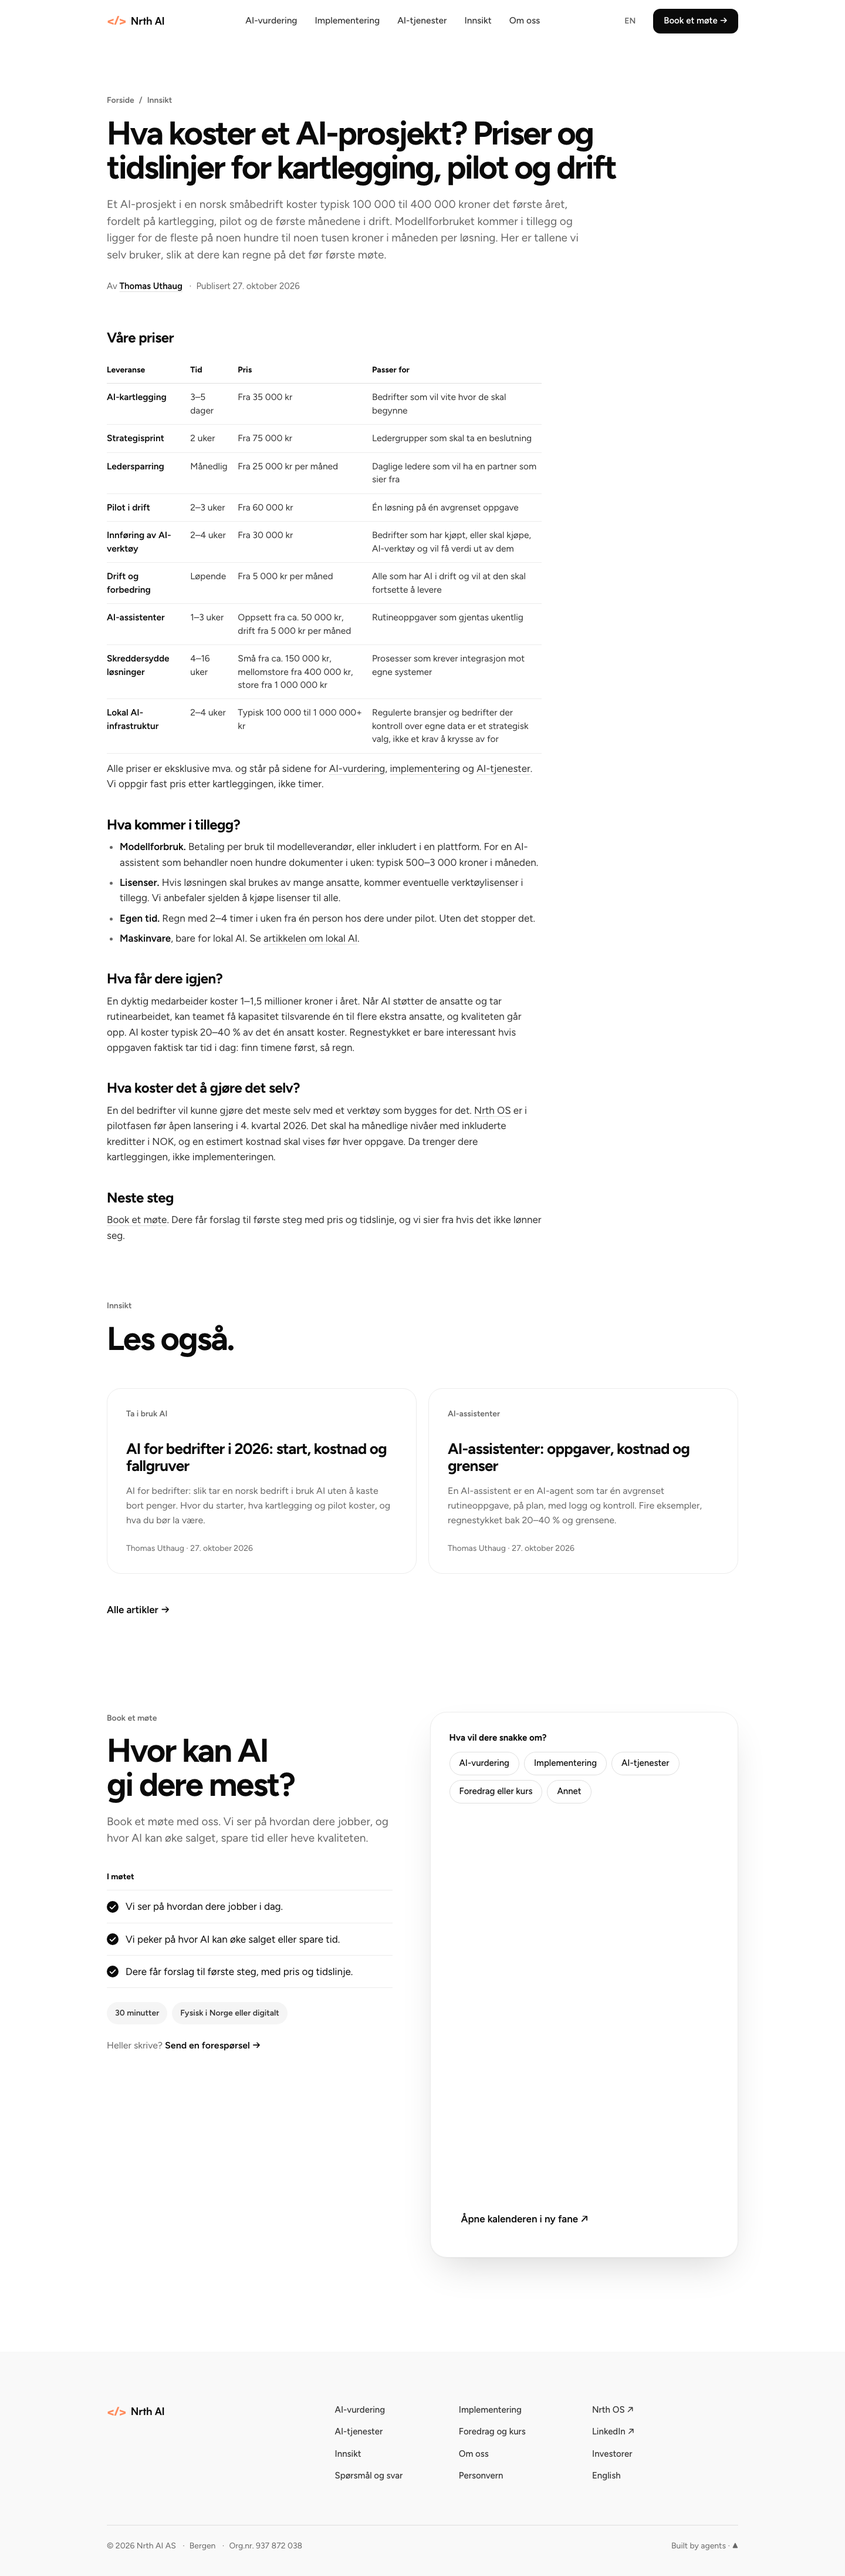
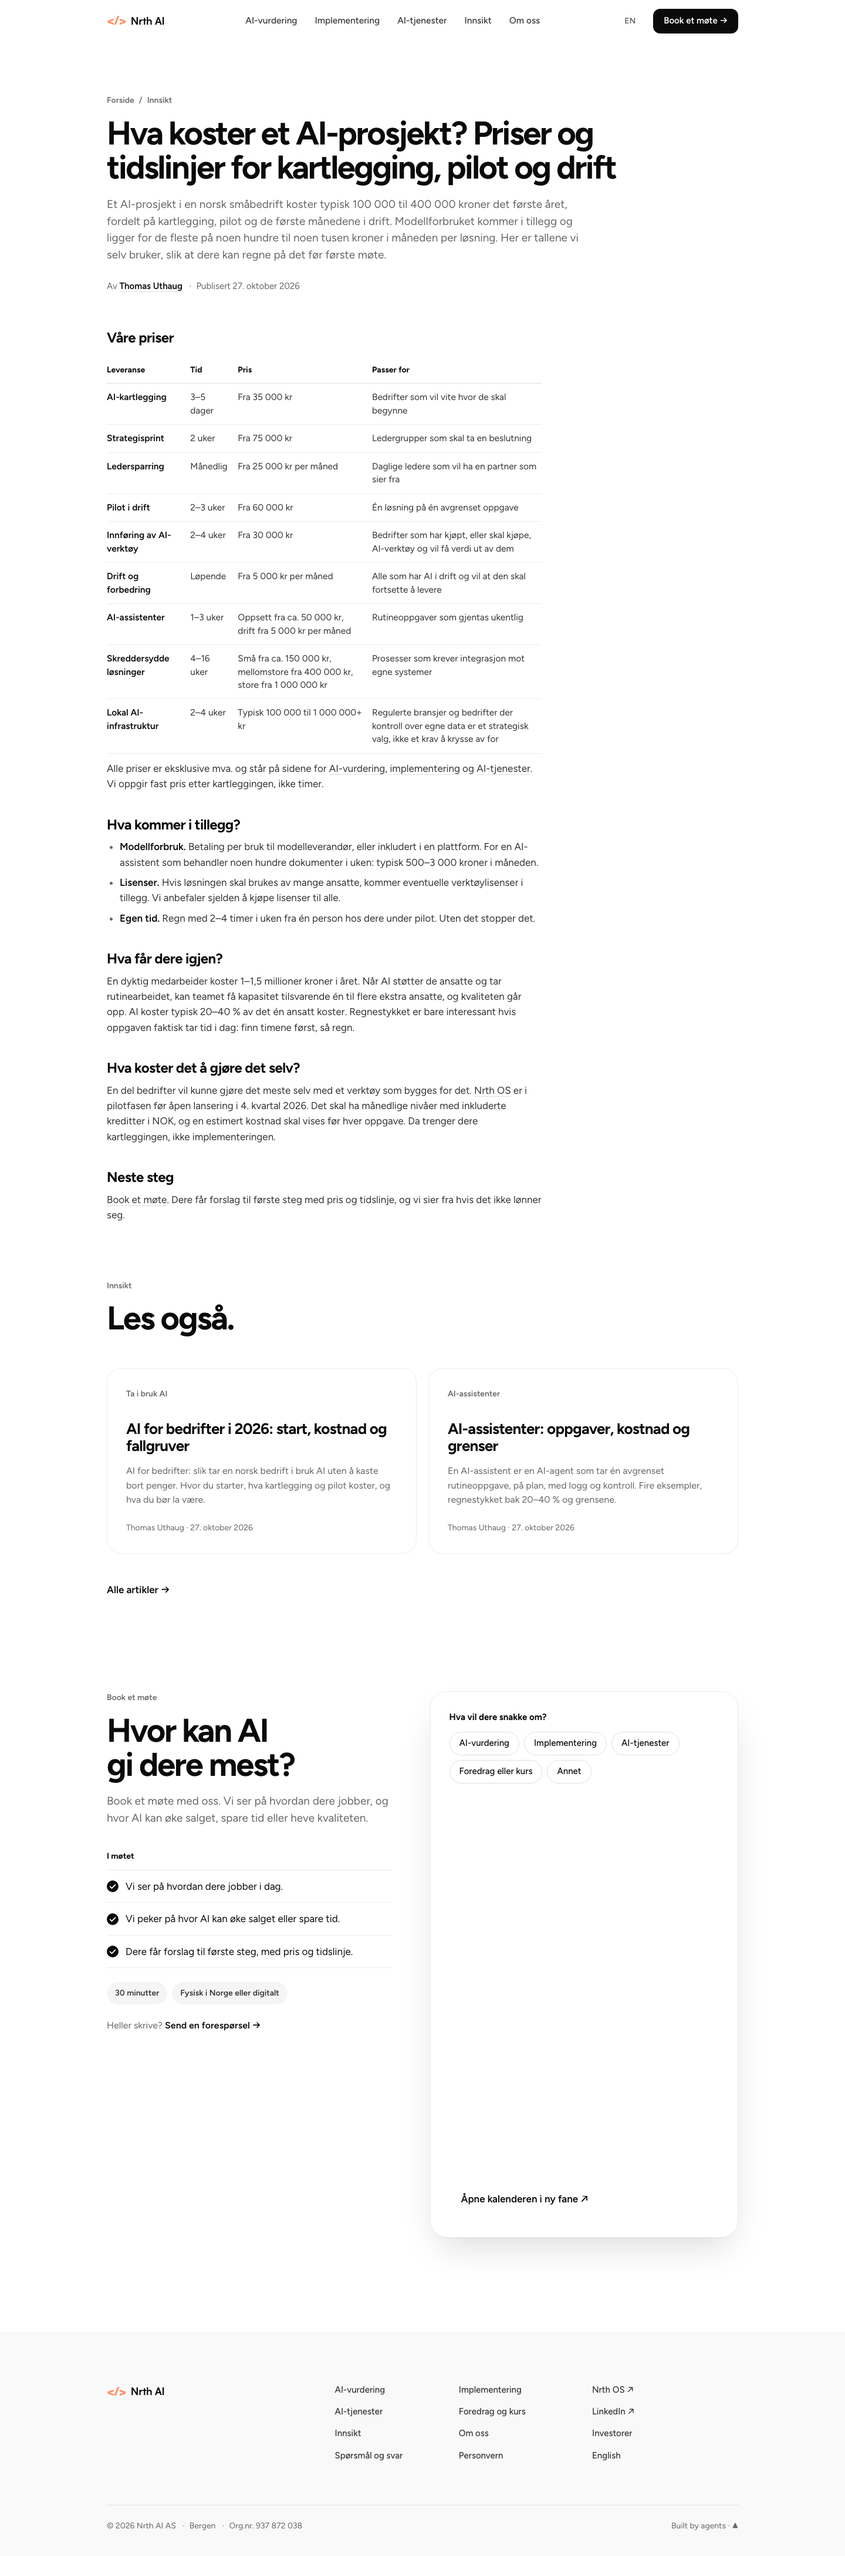
fix(innsikt): svarene fra Thomas om priser
- Lokal AI-infrastruktur (typisk 100 000 til 1 000 000+ kr) er inkludert
  maskinvare. Artikkel 3 sier det, og maskinvare er ikke lenger listet som
  et tillegg i artikkel 4.
- Spennet 100 000–400 000 kr første år står, men uten «alt inkludert», så
  artikkel 1 stemmer med artikkel 4 (modellforbruket kommer i tillegg).
- Skjermbildene av artikkel 4 er tatt på nytt.

diff --git a/innsikt/lokal-ai/index.html b/innsikt/lokal-ai/index.html
@@ -176,7 +176,7 @@
             </table>
           </div>
           <h2 id="hva-koster-det">Hva koster det?</h2>
-          <p>En server som kjører en modell i 30–70&nbsp;milliarder-parameterklassen for 10–50 samtidige brukere koster typisk fra 150&nbsp;000 til 500&nbsp;000&nbsp;kroner i innkjøp, avhengig av grafikkort, pluss strøm og drift. Alternativet er å leie dedikert GPU i et norsk eller europeisk datasenter. Hos oss koster <a href="/ai-tjenester#lokal-ai">lokal AI-infrastruktur</a> typisk 100&nbsp;000 til 1&nbsp;000&nbsp;000+ kr eks. mva., avhengig av omfang, og tar to til fire uker, utenom maskinvare. Nøyaktige tall avhenger av modell og antall brukere, og vi gir et regnestykke i første møte.</p>
+          <p>En server som kjører en modell i 30–70&nbsp;milliarder-parameterklassen for 10–50 samtidige brukere koster typisk fra 150&nbsp;000 til 500&nbsp;000&nbsp;kroner i innkjøp, avhengig av grafikkort, pluss strøm og drift. Alternativet er å leie dedikert GPU i et norsk eller europeisk datasenter. Hos oss koster <a href="/ai-tjenester#lokal-ai">lokal AI-infrastruktur</a> typisk 100&nbsp;000 til 1&nbsp;000&nbsp;000+ kr eks. mva., inkludert maskinvare, avhengig av omfang, og tar to til fire uker. Nøyaktige tall avhenger av modell og antall brukere, og vi gir et regnestykke i første møte.</p>
           <h2 id="hva-med-personvern-og-regelverk">Hva med personvern og regelverk?</h2>
           <p>Lokal AI løser ikke personvernet alene. Dere er fortsatt behandlingsansvarlig for dataene, og modellen må ikke få tilgang til mer enn den trenger. Men lokal AI fjerner det vanskeligste spørsmålet, nemlig overføring til tredjepart og til land utenfor EØS. For AI-forordningen er lokal AI i seg selv verken bedre eller verre; det er bruksområdet som avgjør risikoklassen.</p>
           <h2 id="et-mellomalternativ-eu-hosting-uten-trening">Et mellomalternativ: EU-hosting uten trening</h2>

diff --git a/innsikt/ai-for-bedrifter/index.html b/innsikt/ai-for-bedrifter/index.html
@@ -76,7 +76,7 @@
   "datePublished": "2026-10-27",
   "dateModified": "2026-10-27",
   "articleSection": "Ta i bruk AI",
-  "wordCount": 666,
+  "wordCount": 664,
   "image": "https://nrth.no/innsikt/ai-for-bedrifter/og.png",
   "author": {
     "@type": "Person",
@@ -149,7 +149,7 @@
           <ol><li><a href="/">Forside</a></li><li><a href="/innsikt">Innsikt</a></li></ol>
         </nav>
         <h1>AI for bedrifter i 2026: hvor du starter, hva det koster og hva du bør la være</h1>
-        <p class="lede">De fleste norske bedrifter bør starte med AI på én avgrenset arbeidsoppgave som gjentas ukentlig, ikke med en strategi, et verktøykjøp eller en chatbot. En kartlegging tar tre til fem dager, en pilot i drift tar to til tre uker, og det første året koster typisk mellom 100&nbsp;000 og 400&nbsp;000&nbsp;kroner alt inkludert. Det er langt mindre enn de fleste tror, og langt mer strukturert enn å gi alle en ChatGPT-lisens og håpe.</p>
+        <p class="lede">De fleste norske bedrifter bør starte med AI på én avgrenset arbeidsoppgave som gjentas ukentlig, ikke med en strategi, et verktøykjøp eller en chatbot. En kartlegging tar tre til fem dager, en pilot i drift tar to til tre uker, og det første året koster typisk mellom 100&nbsp;000 og 400&nbsp;000&nbsp;kroner. Det er langt mindre enn de fleste tror, og langt mer strukturert enn å gi alle en ChatGPT-lisens og håpe.</p>
         <p class="byline dots"><span>Av <a href="/om-oss#thomas-uthaug" rel="author">Thomas Uthaug</a></span> <span>Publisert <time datetime="2026-10-27">27. oktober 2026</time></span></p>
       </div>
     </header>

diff --git a/innsikt/hva-koster-et-ai-prosjekt/index.html b/innsikt/hva-koster-et-ai-prosjekt/index.html
@@ -76,7 +76,7 @@
   "datePublished": "2026-10-27",
   "dateModified": "2026-10-27",
   "articleSection": "Ta i bruk AI",
-  "wordCount": 506,
+  "wordCount": 496,
   "image": "https://nrth.no/innsikt/hva-koster-et-ai-prosjekt/og.png",
   "author": {
     "@type": "Person",
@@ -181,7 +181,6 @@
             <li><strong>Modellforbruk.</strong> Betaling per bruk til modelleverandør, eller inkludert i en plattform. For en AI-assistent som behandler noen hundre dokumenter i uken: typisk 500–3&nbsp;000&nbsp;kroner i måneden.</li>
             <li><strong>Lisenser.</strong> Hvis løsningen skal brukes av mange ansatte, kommer eventuelle verktøylisenser i tillegg. Vi anbefaler sjelden å kjøpe lisenser til alle.</li>
             <li><strong>Egen tid.</strong> Regn med 2–4 timer i uken fra én person hos dere under pilot. Uten det stopper det.</li>
-            <li><strong>Maskinvare</strong>, bare for lokal AI. Se <a href="/innsikt/lokal-ai">artikkelen om lokal AI</a>.</li>
           </ul>
           <h2 id="hva-far-dere-igjen">Hva får dere igjen?</h2>
           <p>En dyktig medarbeider koster 1–1,5&nbsp;millioner kroner i året. Når AI støtter de ansatte og tar rutinearbeidet, kan teamet få kapasitet tilsvarende én til flere ekstra ansatte, og kvaliteten går opp. AI koster typisk 20–40&nbsp;% av det én ansatt koster. Regnestykket er bare interessant hvis oppgaven faktisk tar tid i dag: finn timene først, så regn.</p>

diff --git a/docs/innsikt/_endringer-fra-utkastet.md b/docs/innsikt/_endringer-fra-utkastet.md
@@ -145,3 +145,10 @@ Hver endring fra utkastene i strategidokumentet (fanen «Artikler nrth.no», 6. 
 - **Termer.** «| Rutineoppgaver som gjentas ukentlig | AI-medarbeidere, ikke chat-lisenser |» → «| Rutineoppgaver som gjentas ukentlig | AI-assistenter, ikke chat-lisenser |» (/Users/thomas.uthaug/nrth-nettside/data/tjenester.json)
 - **Eksempel fjernet.** ««Sett inn eget eksempel: en bedrift der dere anbefalte å ikke kjøpe lisenser til alle, og hva de gjorde i stedet.»» → «(fjernet)» (/Users/thomas.uthaug/nrth-nettside/CLAUDE.md)
 - **Fakta.** «Vi vurderer verktøy og leverandører som en del av [AI-kartleggingen](https://nrth.no/ai-vurdering), og vi selger ingen av lisensene. [Book et møte](https://nrth.no/book).» → «Vi vurderer verktøy og leverandører som en del av [ledersparringen](/ai-vurdering#ledersparring), og vi selger ingen av lisensene. [Book et møte](/book).» (/Users/thomas.uthaug/nrth-nettside/ai-vurdering/index.html (id="ledersparring" har «Vurdering av verktøy og leverandører»; AI-kartleggingen har det ikke; samme i docs/revisjon-2026-10/03-tekst-norsk.md))
+
+## Etter svar fra Thomas 27. oktober 2026
+
+- **Pris.** «det første året koster typisk mellom 100 000 og 400 000 kroner alt inkludert» → «det første året koster typisk mellom 100 000 og 400 000 kroner» i /innsikt/ai-for-bedrifter. Spennet står, men «alt inkludert» stemte ikke med /innsikt/hva-koster-et-ai-prosjekt, der modellforbruket kommer i tillegg.
+- **Pris.** «typisk 100 000 til 1 000 000+ kr eks. mva., avhengig av omfang, og tar to til fire uker, utenom maskinvare» → «typisk 100 000 til 1 000 000+ kr eks. mva., inkludert maskinvare, avhengig av omfang, og tar to til fire uker» i /innsikt/lokal-ai. Thomas: maskinvaren er med i prisen.
+- **Pris.** Punktet «Maskinvare, bare for lokal AI» under «Hva kommer i tillegg?» er fjernet fra /innsikt/hva-koster-et-ai-prosjekt, av samme grunn.
+- Bekreftet uendret: modellforbruket kommer i tillegg til driften, fast pris etter kartleggingen, at kartleggingen vurderer personvernkonsekvenser og risikoklasse, at Nrth AI ikke selger lisenser, og 2–4 timer i uken fra kunden under pilot.

diff --git a/docs/innsikt/lokal-ai.md b/docs/innsikt/lokal-ai.md
@@ -34,7 +34,7 @@ Kvaliteten på åpne modeller i 2026 er god nok for de fleste bedriftsoppgaver: 
 
 ## Hva koster det?
 
-En server som kjører en modell i 30–70 milliarder-parameterklassen for 10–50 samtidige brukere koster typisk fra 150 000 til 500 000 kroner i innkjøp, avhengig av grafikkort, pluss strøm og drift. Alternativet er å leie dedikert GPU i et norsk eller europeisk datasenter. Hos oss koster [lokal AI-infrastruktur](/ai-tjenester#lokal-ai) typisk 100 000 til 1 000 000+ kr eks. mva., avhengig av omfang, og tar to til fire uker, utenom maskinvare. Nøyaktige tall avhenger av modell og antall brukere, og vi gir et regnestykke i første møte.
+En server som kjører en modell i 30–70 milliarder-parameterklassen for 10–50 samtidige brukere koster typisk fra 150 000 til 500 000 kroner i innkjøp, avhengig av grafikkort, pluss strøm og drift. Alternativet er å leie dedikert GPU i et norsk eller europeisk datasenter. Hos oss koster [lokal AI-infrastruktur](/ai-tjenester#lokal-ai) typisk 100 000 til 1 000 000+ kr eks. mva., inkludert maskinvare, avhengig av omfang, og tar to til fire uker. Nøyaktige tall avhenger av modell og antall brukere, og vi gir et regnestykke i første møte.
 
 ## Hva med personvern og regelverk?
 

diff --git a/docs/innsikt/ai-for-bedrifter.md b/docs/innsikt/ai-for-bedrifter.md
@@ -13,7 +13,7 @@ en_tittel: AI for businesses in 2026: where to start, costs and pitfalls
 en_beskrivelse: How a Norwegian business can adopt AI without wasting money: where to start, what an assessment and a pilot cost, and what to avoid.
 ---
 
-De fleste norske bedrifter bør starte med AI på én avgrenset arbeidsoppgave som gjentas ukentlig, ikke med en strategi, et verktøykjøp eller en chatbot. En kartlegging tar tre til fem dager, en pilot i drift tar to til tre uker, og det første året koster typisk mellom 100 000 og 400 000 kroner alt inkludert. Det er langt mindre enn de fleste tror, og langt mer strukturert enn å gi alle en ChatGPT-lisens og håpe.
+De fleste norske bedrifter bør starte med AI på én avgrenset arbeidsoppgave som gjentas ukentlig, ikke med en strategi, et verktøykjøp eller en chatbot. En kartlegging tar tre til fem dager, en pilot i drift tar to til tre uker, og det første året koster typisk mellom 100 000 og 400 000 kroner. Det er langt mindre enn de fleste tror, og langt mer strukturert enn å gi alle en ChatGPT-lisens og håpe.
 
 ## Hvor står norske bedrifter i dag?
 

diff --git a/docs/innsikt/hva-koster-et-ai-prosjekt.md b/docs/innsikt/hva-koster-et-ai-prosjekt.md
@@ -36,7 +36,6 @@ Alle priser er eksklusive mva. og står på sidene for [AI-vurdering](/ai-vurder
 - **Modellforbruk.** Betaling per bruk til modelleverandør, eller inkludert i en plattform. For en AI-assistent som behandler noen hundre dokumenter i uken: typisk 500–3 000 kroner i måneden.
 - **Lisenser.** Hvis løsningen skal brukes av mange ansatte, kommer eventuelle verktøylisenser i tillegg. Vi anbefaler sjelden å kjøpe lisenser til alle.
 - **Egen tid.** Regn med 2–4 timer i uken fra én person hos dere under pilot. Uten det stopper det.
-- **Maskinvare**, bare for lokal AI. Se [artikkelen om lokal AI](/innsikt/lokal-ai).
 
 ## Hva får dere igjen?
 
